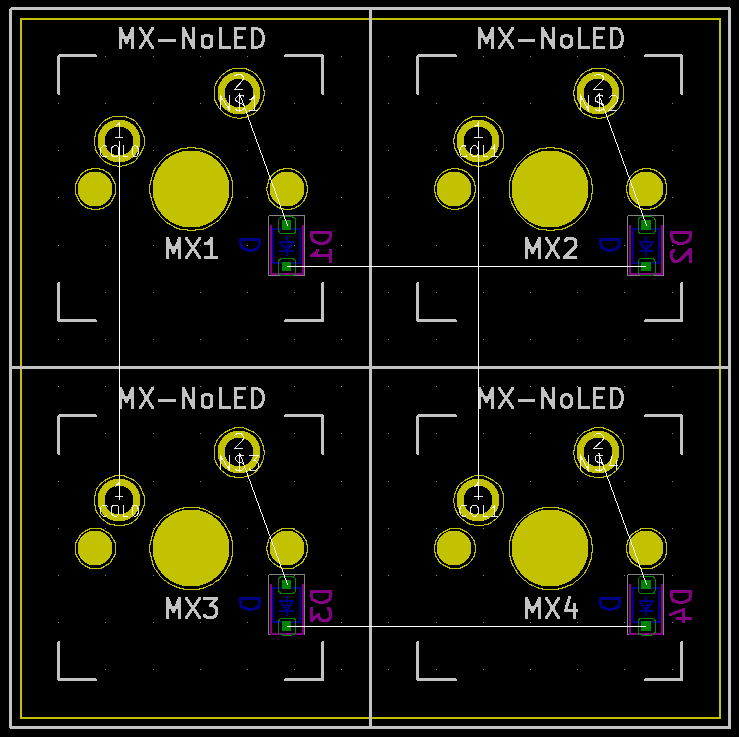
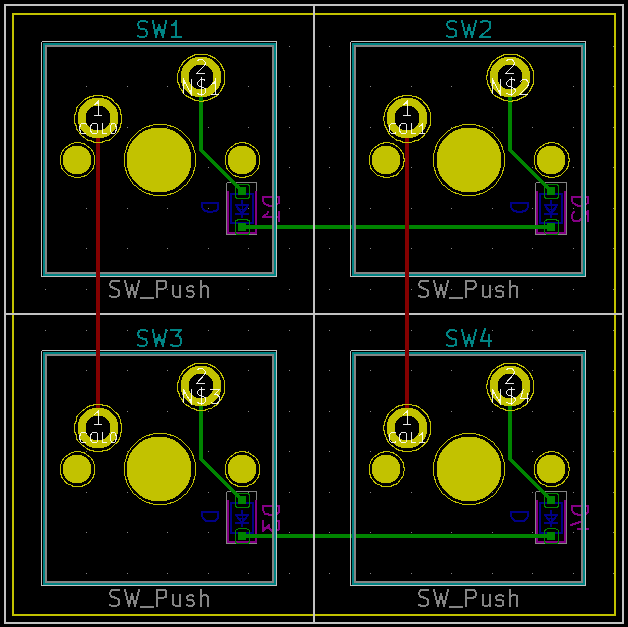
update examples

Changed region(s): [[0.0, 0.0, 0.9984, 1.0], [0.242, 0.6667, 0.2723, 0.697]]

diff --git a/README.md b/README.md
@@ -2,14 +2,17 @@
 
 ## About
 Features:
- - KiCAD project generator for mechanical keyboards with web interface.
+ - KiCad project generator for mechanical keyboards with web interface
+    - two switch libraries to choose from: [MX_Alps_Hybrid](https://github.com/ai03-2725/MX_Alps_Hybrid) and [Switch_Keyboard](https://github.com/perigoso/Switch_Keyboard)
+    - key rotations thanks to patched [kle-serial](https://github.com/ijprest/kle-serial)
+    - supports basic pre-routing (remember to always run DRC, in some cases, especially around stabilizers mounting holes, routing might be invalid)
 
 ### Examples
-[keyboard-layout-editor](www.keyboard-layout-editor.com) | KiCad PCB
+[keyboard-layout-editor](www.keyboard-layout-editor.com) | KiCad PCB (with routing enabled)
 --- | ---
-![2x2](examples/key-placement/2x2.png)<br />[json](examples/key-placement/2x2.json) | ![2x2-pcb](examples/key-placement/2x2-pcb.png)
-![3x2-sizes](examples/key-placement/3x2-sizes.png)<br />[json](examples/key-placement/3x2-sizes.json) | ![3x2-pcb](examples/key-placement/3x2-sizes-pcb.png)
-![2x3-rotations](examples/key-placement/2x3-rotations.png)<br />[json](examples/key-placement/2x3-rotations.json) | ![2x3-rotations-pcb](examples/key-placement/2x3-rotations-pcb.png)
+![2x2](examples/key-placement/2x2.png)<br/>[json](examples/key-placement/2x2.json) | ![2x2-pcb](examples/key-placement/2x2-pcb.png)
+![3x2-sizes](examples/key-placement/3x2-sizes.png)<br/>[json](examples/key-placement/3x2-sizes.json) | ![3x2-pcb](examples/key-placement/3x2-sizes-pcb.png)
+![2x3-rotations](examples/key-placement/2x3-rotations.png)<br/>[json](examples/key-placement/2x3-rotations.json) | ![2x3-rotations-pcb](examples/key-placement/2x3-rotations-pcb.png)<br/>Note: Routing for rotated switches may be incomplete
 
 For recommended workflow see [workflow guide](examples/workflow/README.md)
 
